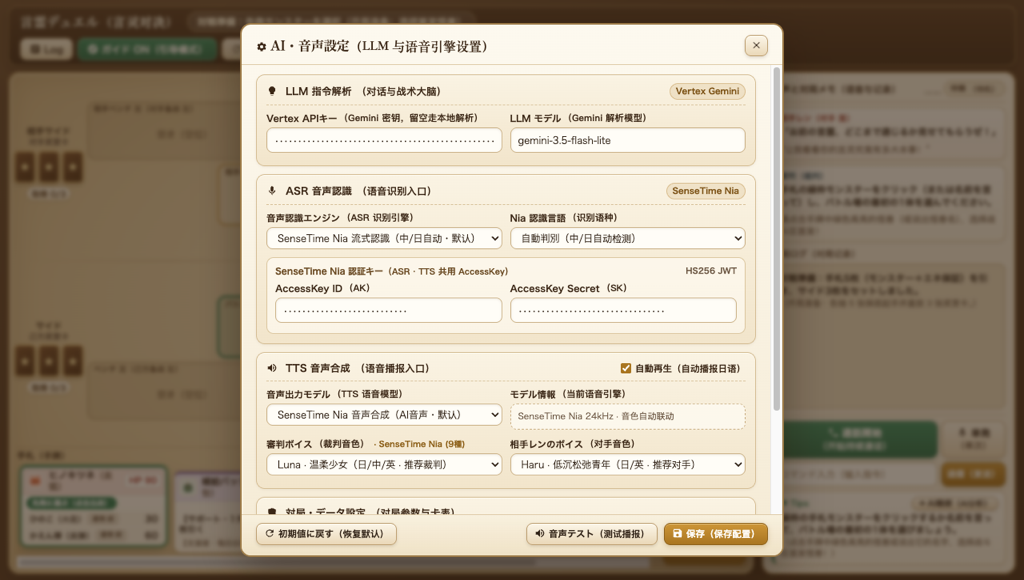
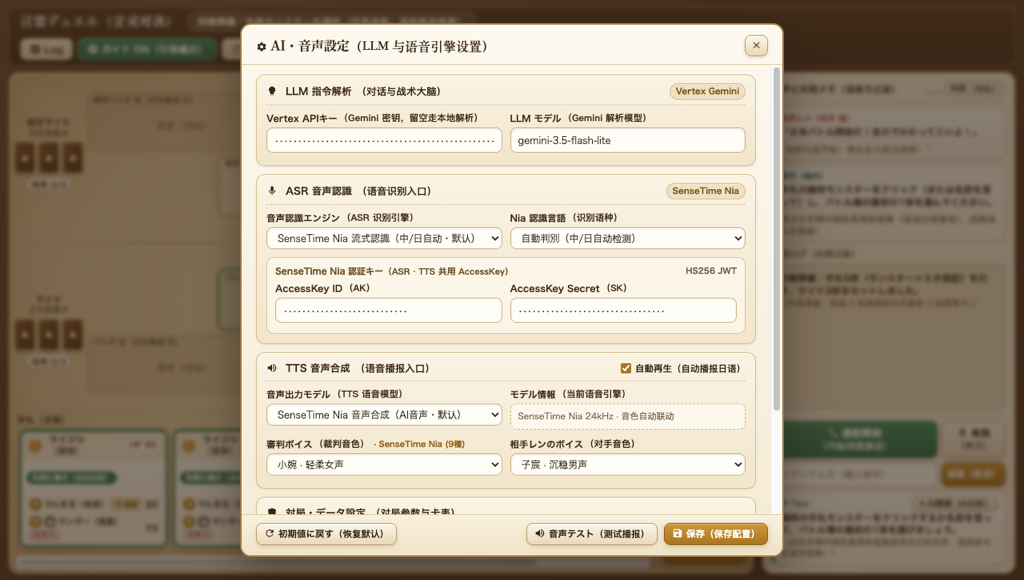
chore: 默认音色调整为小婉(裁判)与子宸(对手)并精简音色下拉文案

diff --git a/app.js b/app.js
@@ -93,7 +93,7 @@
     item_recycle: '<svg viewBox="0 0 40 40" aria-hidden="true"><rect width="40" height="40" rx="8" fill="#e8f4ee"/><path d="M20,9 A11,11 0 1 1 10,24" fill="none" stroke="#2e6b47" stroke-width="3" stroke-linecap="round"/><polygon points="20,5 25,10 18,13" fill="#2e6b47"/><polygon points="18,14 23,14 20,20 24,20 17,28 19,21 15,21" fill="#d48c1d"/></svg>'
   };
 
-  const STORAGE_KEY_CFG  = "elemental_table_api_cfg_v13";
+  const STORAGE_KEY_CFG  = "elemental_table_api_cfg_v14";
   const STORAGE_KEY_DATA = "kotodama_duel_imported_gamedata_v2";
   const STORAGE_KEY_MD   = "elemental_table_imported_md_v1";
 
@@ -127,8 +127,8 @@
     niaSk: _decodeBuiltinNiaSk(),
     niaAsrLang: "",
     ttsEngine: "nia_tts",
-    niaVoiceReferee: "female_luna",
-    niaVoiceRival: "male_haru",
+    niaVoiceReferee: "female_xiaowan",
+    niaVoiceRival: "male_zichen",
     voiceReferee: "Kore",
     voiceRival: "Fenrir",
     chromeVoiceURI: "",
@@ -1241,24 +1241,24 @@
     /* 各 TTS 引擎可用音色目录（切换语音模型时同一组音色下拉框自动切换可选列表） */
     VOICE_CATALOG: {
       nia_tts: [
-        { value: "female_luna", label: "Luna · 温柔少女（日/中/英 · 推荐裁判）" },
-        { value: "female_meihe", label: "美和 · 清澈女声（日语）" },
-        { value: "female_lora", label: "Lora · 温柔青年（日语）" },
-        { value: "female_shuying", label: "疏影 · 知性女声（日语）" },
-        { value: "female_xiaowan", label: "小婉 · 轻柔女声（日语）" },
-        { value: "male_haru", label: "Haru · 低沉松弛青年（日/英 · 推荐对手）" },
-        { value: "male_shantian", label: "山田 · 温柔成年男声（日语）" },
-        { value: "male_youzhen", label: "悠真 · 爽朗青年男声（日语）" },
-        { value: "male_zichen", label: "子宸 · 沉稳男声（日语）" }
+        { value: "female_xiaowan", label: "小婉 · 轻柔女声" },
+        { value: "female_luna", label: "Luna · 温柔少女" },
+        { value: "female_meihe", label: "美和 · 清澈女声" },
+        { value: "female_lora", label: "Lora · 温柔青年" },
+        { value: "female_shuying", label: "疏影 · 知性女声" },
+        { value: "male_zichen", label: "子宸 · 沉稳男声" },
+        { value: "male_haru", label: "Haru · 低沉松弛青年" },
+        { value: "male_shantian", label: "山田 · 温柔成年男声" },
+        { value: "male_youzhen", label: "悠真 · 爽朗青年男声" }
       ],
       vertex_tts: [
-        { value: "Kore", label: "Kore（清脆女声 · 推荐裁判）" },
-        { value: "Fenrir", label: "Fenrir（低沉男声 · 推荐对手）" },
-        { value: "Zephyr", label: "Zephyr（明亮轻快）" },
-        { value: "Leda", label: "Leda（温和女声）" },
-        { value: "Aoede", label: "Aoede（柔和女声）" },
-        { value: "Puck", label: "Puck（活力少年）" },
-        { value: "Charon", label: "Charon（稳重男声）" }
+        { value: "Kore", label: "Kore" },
+        { value: "Fenrir", label: "Fenrir" },
+        { value: "Zephyr", label: "Zephyr" },
+        { value: "Leda", label: "Leda" },
+        { value: "Aoede", label: "Aoede" },
+        { value: "Puck", label: "Puck" },
+        { value: "Charon", label: "Charon" }
       ]
     },
 
@@ -1538,8 +1538,8 @@
     async fetchNiaTtsAudioBuffer(text, role = "referee") {
       const cfg = ConfigManager.data;
       const voiceId = role === "rival"
-        ? (cfg.niaVoiceRival || "male_haru")
-        : (cfg.niaVoiceReferee || "female_luna");
+        ? (cfg.niaVoiceRival || "male_zichen")
+        : (cfg.niaVoiceReferee || "female_xiaowan");
       const cacheKey = `nia|${voiceId}|${text}`;
       if (this.audioCache.has(cacheKey)) return this.audioCache.get(cacheKey);
       if (this.inflightCache.has(cacheKey)) return await this.inflightCache.get(cacheKey);
@@ -1779,8 +1779,8 @@
       const t0 = Date.now();
       const cfg = ConfigManager.data;
       const voiceId = role === "rival"
-        ? (cfg.niaVoiceRival || "male_haru")
-        : (cfg.niaVoiceReferee || "female_luna");
+        ? (cfg.niaVoiceRival || "male_zichen")
+        : (cfg.niaVoiceReferee || "female_xiaowan");
       const cacheKey = `nia|${voiceId}|${text}`;
       const cached = this.audioCache.has(cacheKey);
       const buf = await this.fetchNiaTtsAudioBuffer(text, role);

diff --git a/README.md b/README.md
@@ -257,7 +257,7 @@ flowchart TD
 
 - **全链路调试日志**：点击顶栏 `Log` 打开调试抽屉，支持按 `ALL / ASR / NLU / TTS / AEC / ERR` 过滤，以及一键复制或导出 `log.json`（导出内容不含任何密钥）。
 - **浏览器存储键**：
-  - `localStorage["elemental_table_api_cfg_v13"]`：LLM / ASR / TTS 引擎、密钥、音色、无响应秒数（默认 `15`）、难度等用户配置
+  - `localStorage["elemental_table_api_cfg_v14"]`：LLM / ASR / TTS 引擎、密钥、音色、无响应秒数（默认 `15`）、难度等用户配置
   - `localStorage["kotodama_duel_imported_gamedata_v2"]`：页面手动导入的 `gamedata.json` 覆盖缓存
 - **公开发布安全提示**：当前演示版为方便开箱体验内置了默认测试密钥。如用于正式对外公开部署，建议将 `app.js` 中的默认 Key 置空，或将云端推理与语音鉴权改为经由后端代理转发，避免前端密钥被滥用。
 
